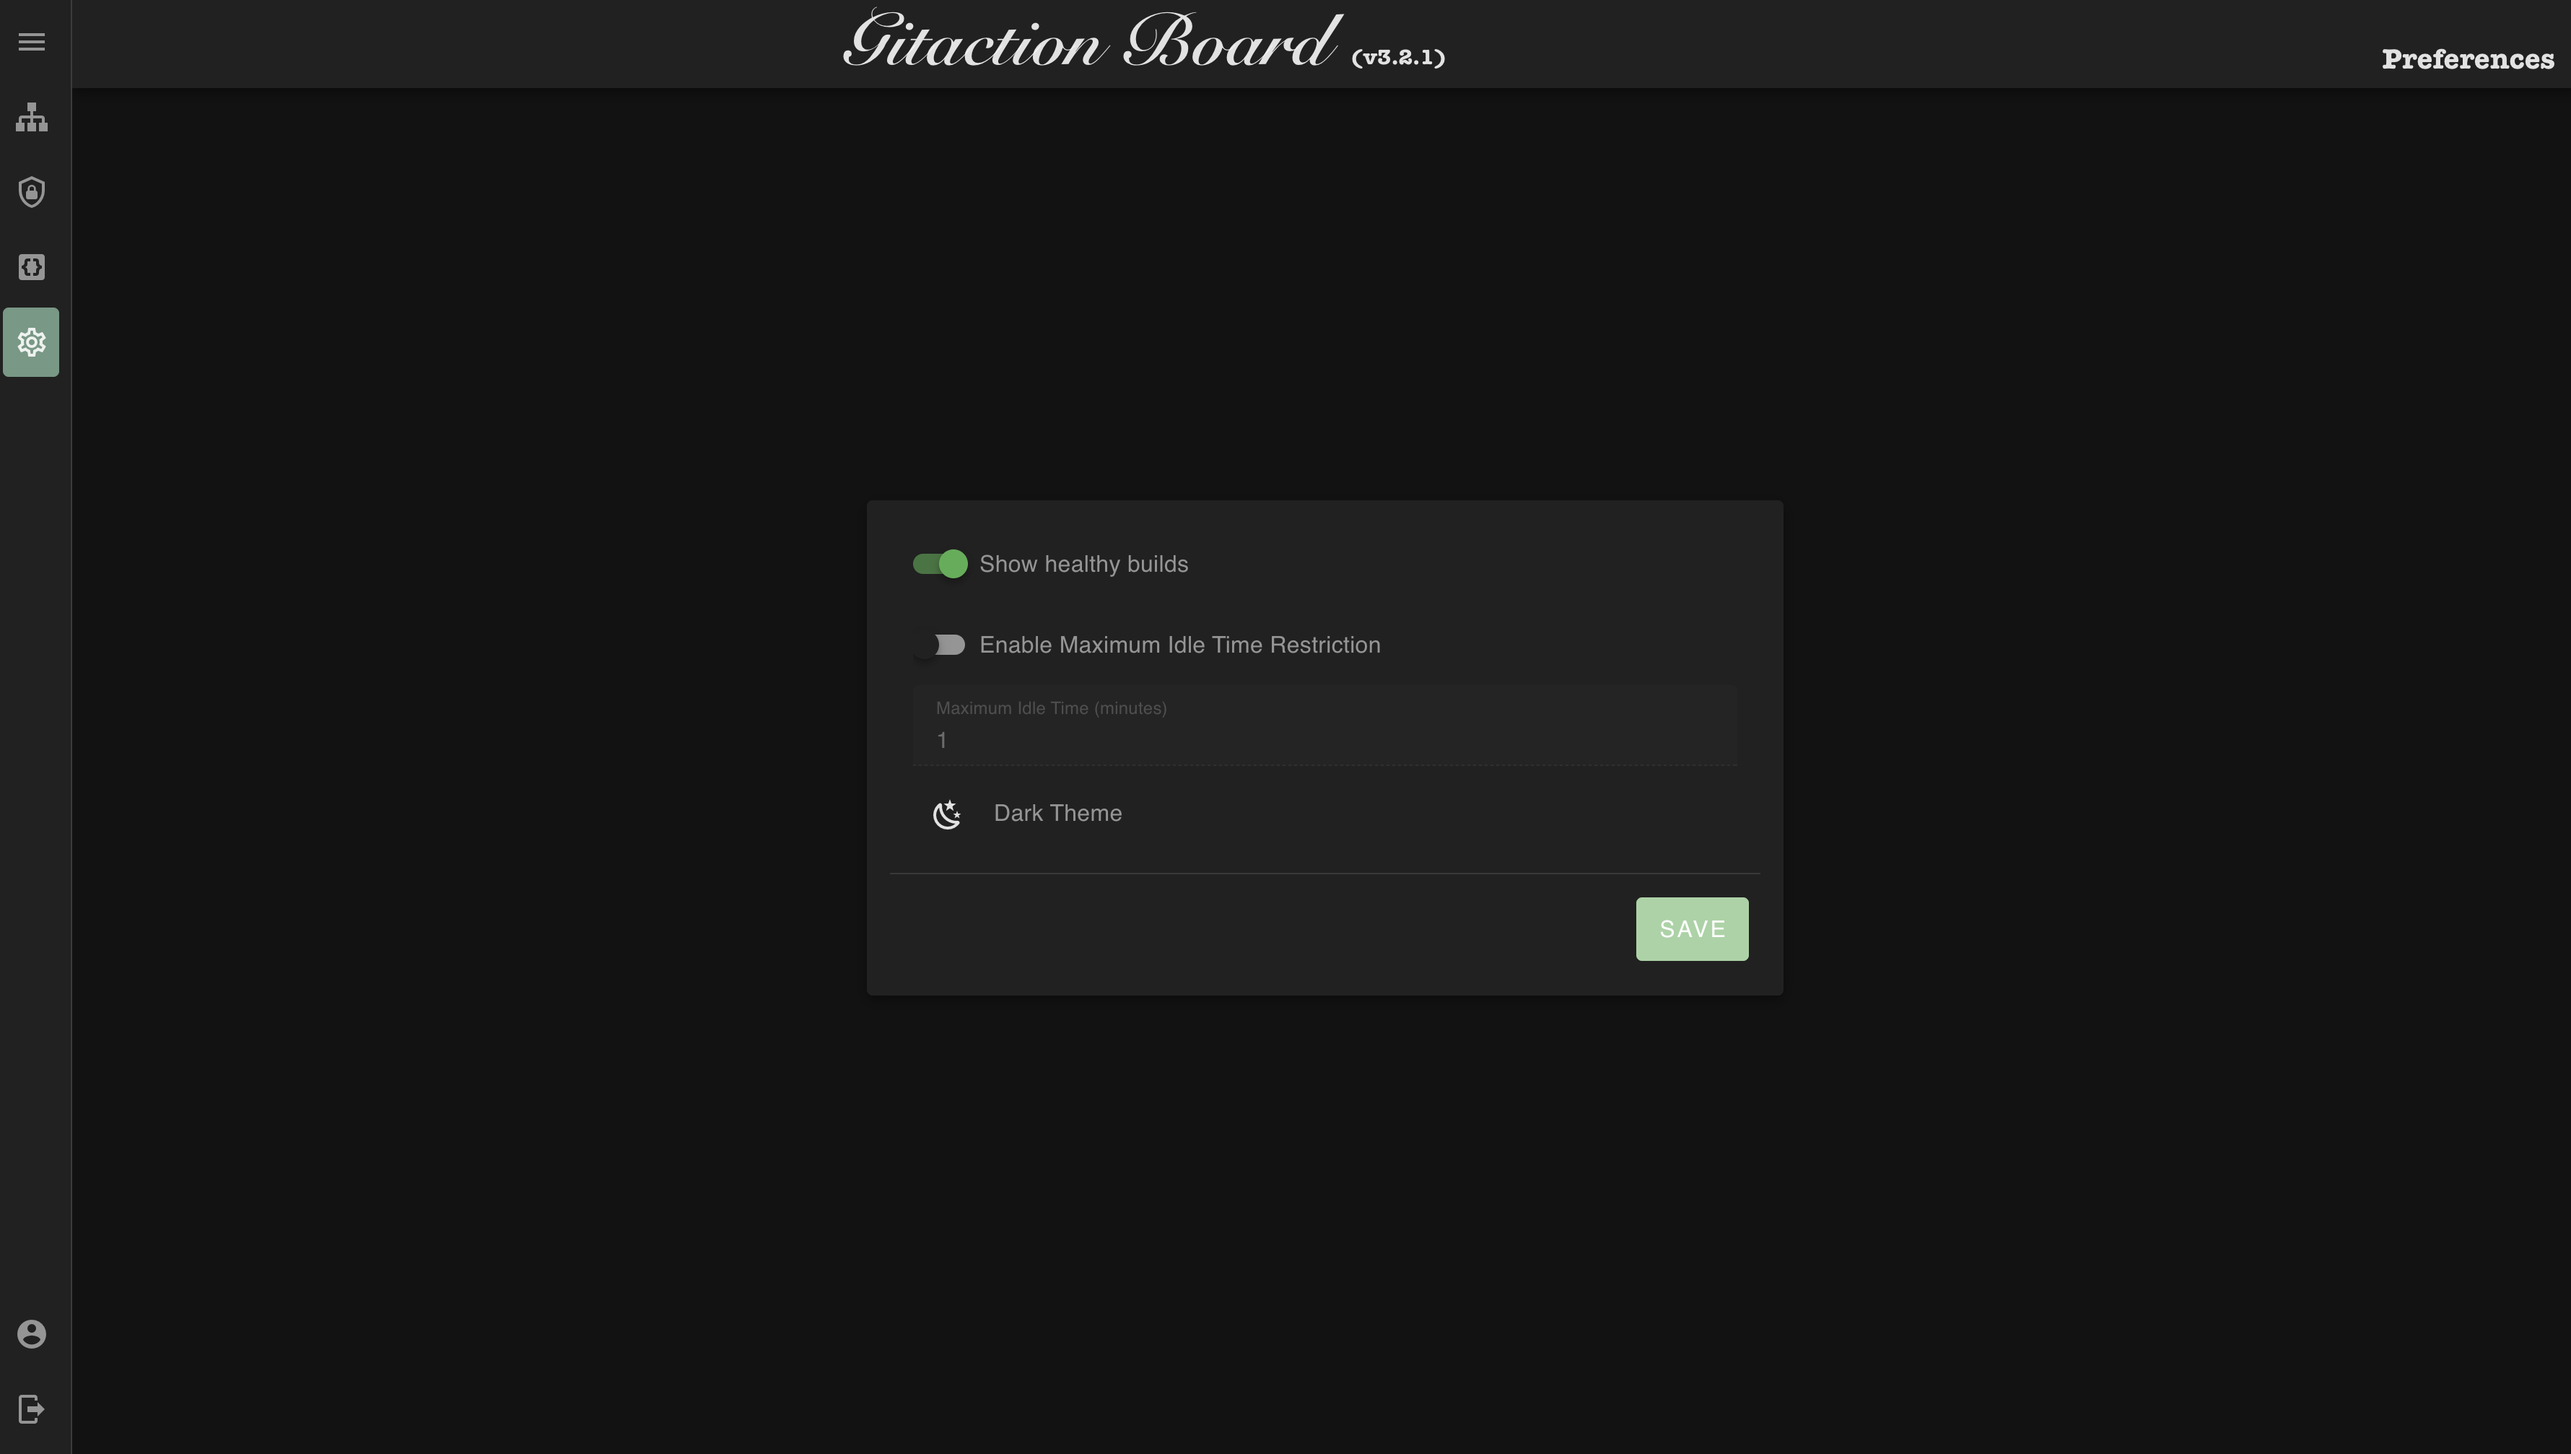
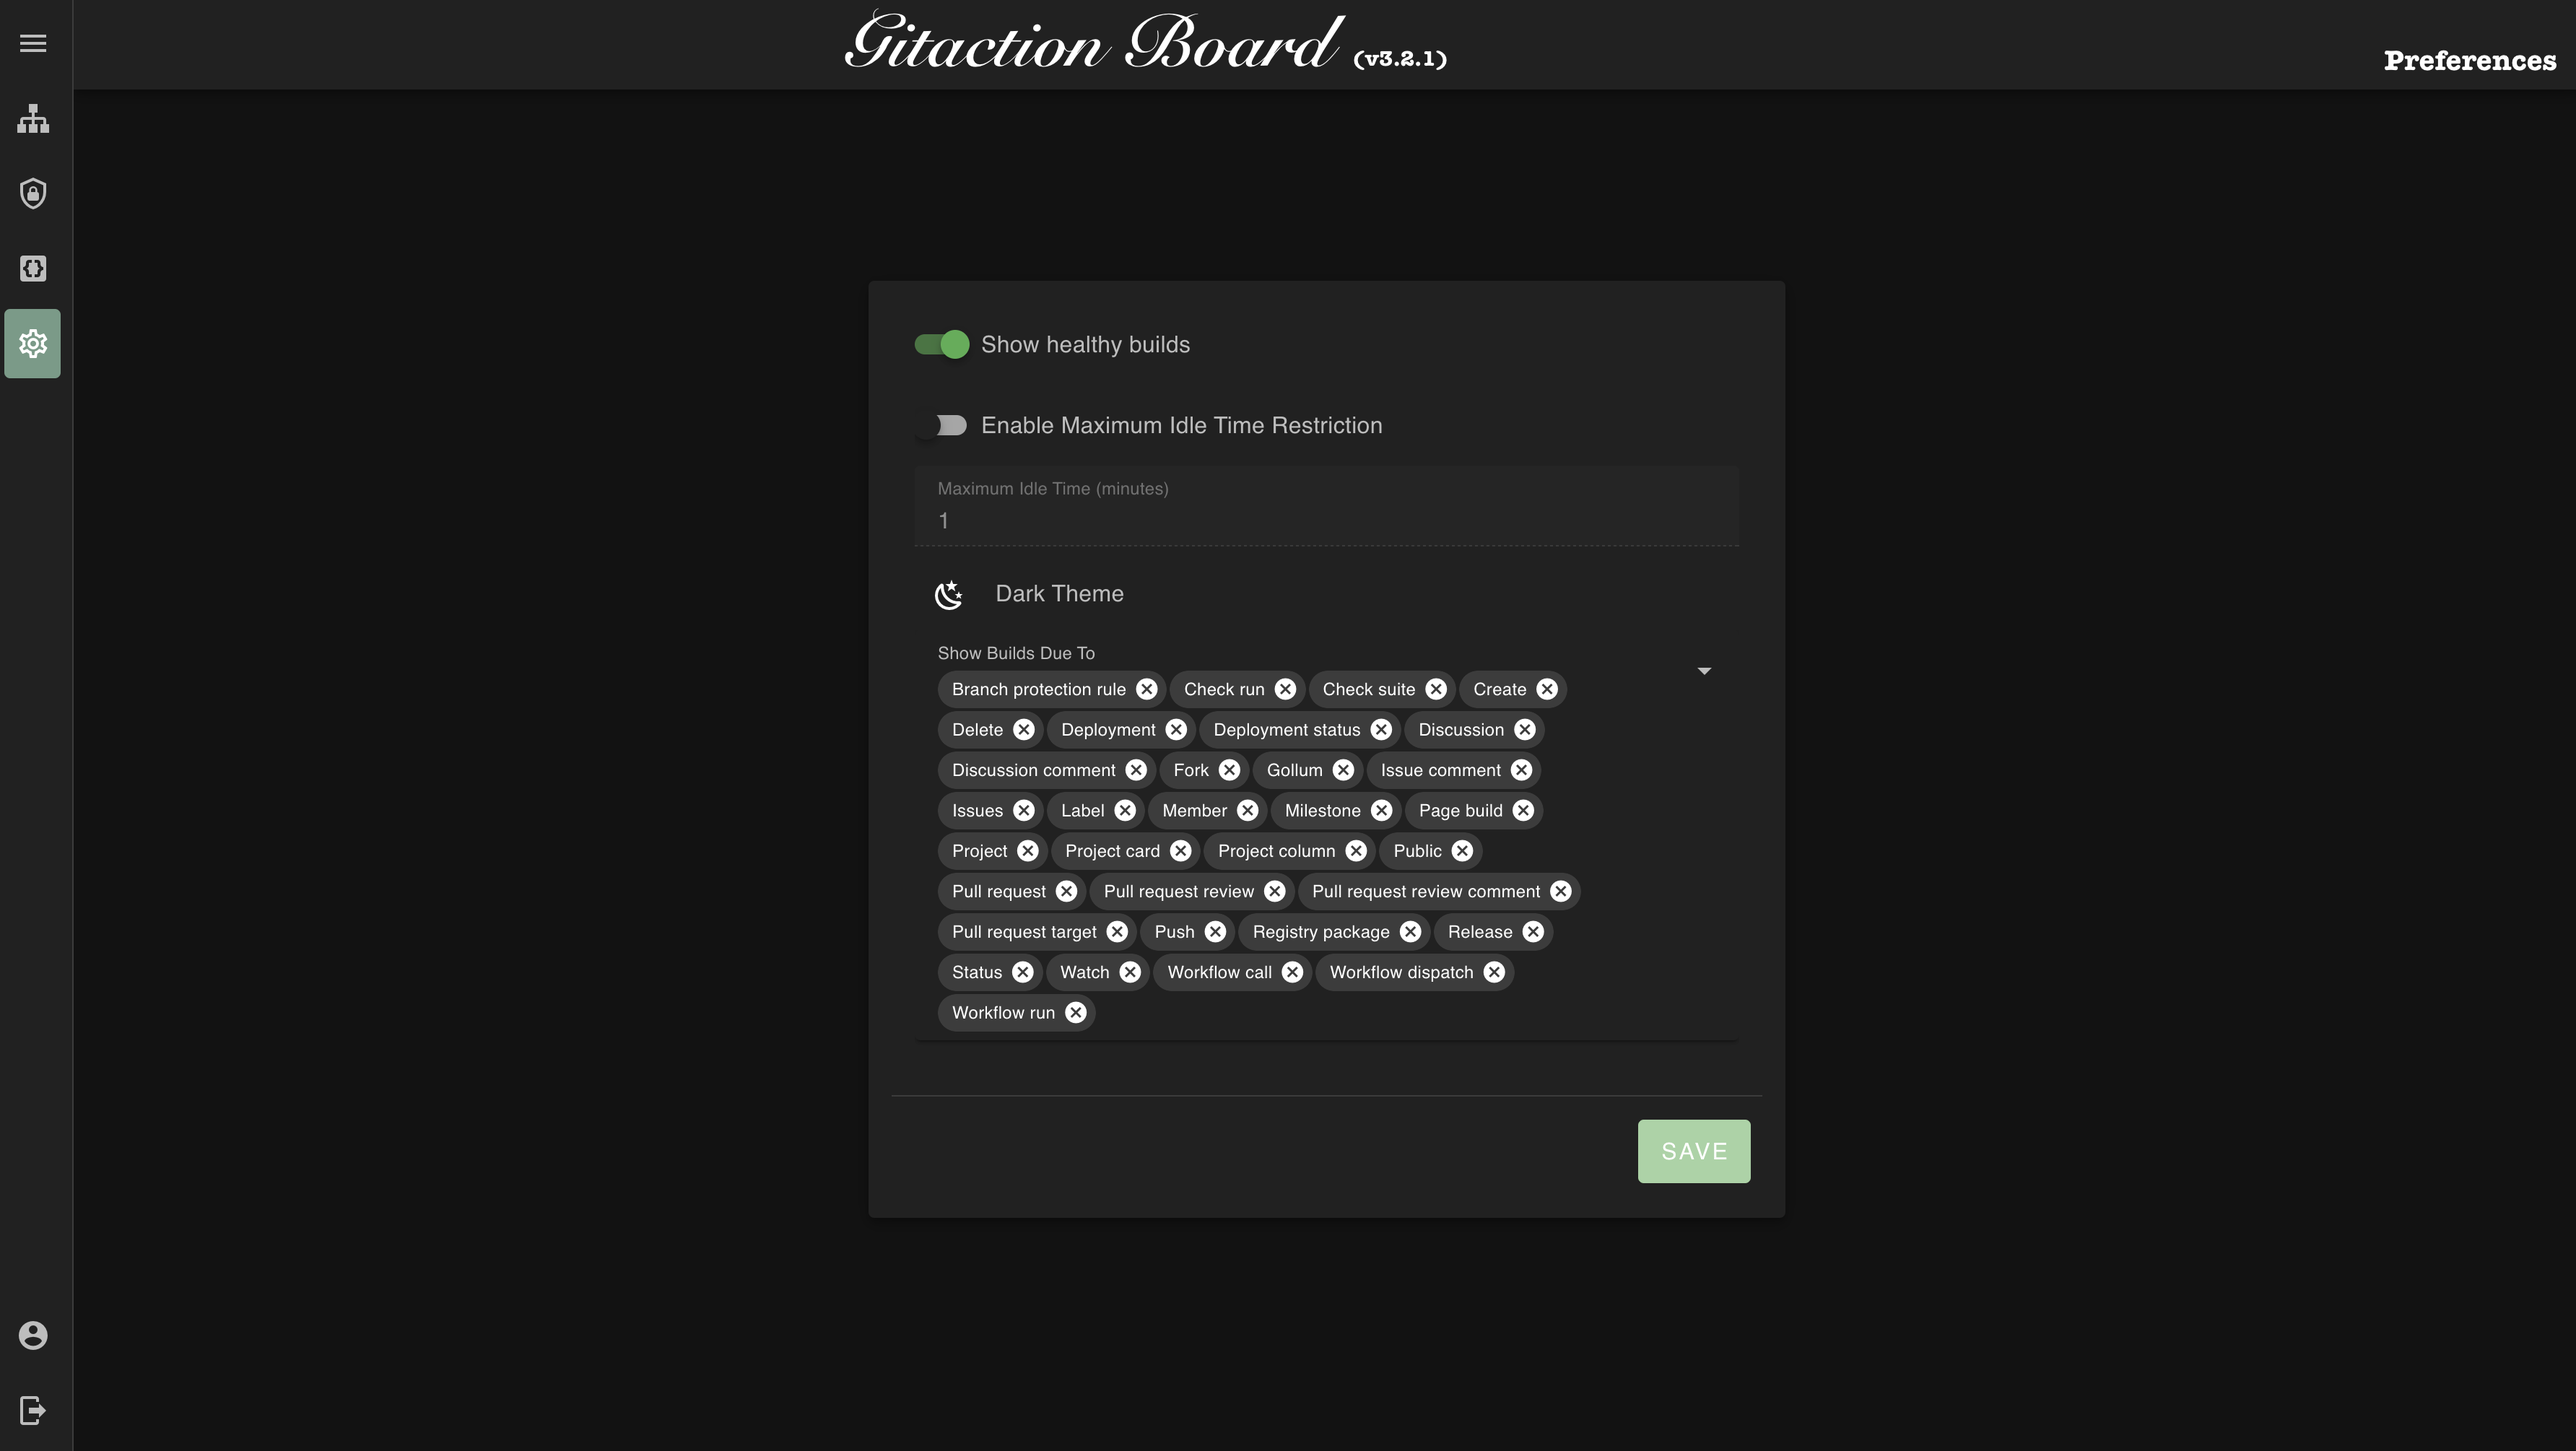
feat: (#216) Introduce possibility to filter builds based on events
- Closes #216

diff --git a/frontend/src/components/Preferences.vue b/frontend/src/components/Preferences.vue
@@ -49,6 +49,21 @@
             {{ theme === 'light' ? 'Light' : 'Dark' }} Theme
           </v-label>
         </v-card-item>
+        <v-card-item class="pt-0 pb-0">
+          <v-autocomplete
+            v-model="showBuildsDueToTriggeredEvents"
+            chips
+            closable-chips
+            label="Show Builds Due To"
+            multiple
+            variant="solo"
+            hide-selected
+            clearable
+            hide-no-data
+            :items="getAllPossibleTriggeredEvents"
+            @update:model-value="modelValueUpdated"
+          />
+        </v-card-item>
         <v-divider class="mt-4 mb-2" />
         <v-card-actions>
           <v-spacer />
@@ -71,6 +86,7 @@
 import preferences from '@/services/preferences';
 import DashboardHeader from '@/components/DashboardHeader.vue';
 import { useTheme } from 'vuetify';
+import { getAllPossibleTriggeredEvents, getShowBuildsDueToTriggeredEvents } from '@/services/utils';
 
 export default {
   name: 'Preferences',
@@ -82,7 +98,8 @@ export default {
       maxIdleTime: preferences.maxIdleTime,
       enableMaxIdleTimeOptimization: preferences.enableMaxIdleTimeOptimization,
       themeInstance,
-      isDirty: false
+      isDirty: false,
+      showBuildsDueToTriggeredEvents: getShowBuildsDueToTriggeredEvents()
     };
   },
   computed: {
@@ -97,6 +114,9 @@ export default {
     },
     theme() {
       return this.themeInstance.global.name;
+    },
+    getAllPossibleTriggeredEvents() {
+      return getAllPossibleTriggeredEvents();
     }
   },
   methods: {
@@ -109,6 +129,7 @@ export default {
       preferences.showHealthyBuilds = this.showHealthyBuilds;
       preferences.maxIdleTime = this.maxIdleTime;
       preferences.theme = this.themeInstance.global.name;
+      preferences.showBuildsDueToTriggeredEvents = this.showBuildsDueToTriggeredEvents;
 
       this.isDirty = false;
     },
@@ -116,7 +137,18 @@ export default {
       this.isDirty = !(this.themeInstance.global.name === preferences.theme &&
           this.showHealthyBuilds === preferences.showHealthyBuilds &&
             this.maxIdleTime === preferences.maxIdleTime &&
-            this.enableMaxIdleTimeOptimization === preferences.enableMaxIdleTimeOptimization);
+            this.enableMaxIdleTimeOptimization === preferences.enableMaxIdleTimeOptimization &&
+          this.hasSameShowBuildsDueToTriggeredEvents());
+    },
+    hasSameShowBuildsDueToTriggeredEvents() {
+      const newPreferredTriggeredEvents = Object.keys(this.showBuildsDueToTriggeredEvents);
+      const preferredTriggeredEvents = preferences.showBuildsDueToTriggeredEvents;
+
+      if (preferredTriggeredEvents.length === 0 &&
+          newPreferredTriggeredEvents.length === getAllPossibleTriggeredEvents().length) { return true; }
+
+      return preferredTriggeredEvents.length === newPreferredTriggeredEvents.length &&
+        preferredTriggeredEvents.every((val, index) => val === newPreferredTriggeredEvents[index]);
     }
   }
 };

diff --git a/frontend/src/services/utils.js b/frontend/src/services/utils.js
@@ -1,4 +1,42 @@
 import storageService from '@/services/storageService';
+import preferences from '@/services/preferences';
+
+const allPossibleEvents = {
+  branch_protection_rule: 'Branch protection rule',
+  check_run: 'Check run',
+  check_suite: 'Check suite',
+  create: 'Create',
+  delete: 'Delete',
+  deployment: 'Deployment',
+  deployment_status: 'Deployment status',
+  discussion: 'Discussion',
+  discussion_comment: 'Discussion comment',
+  fork: 'Fork',
+  gollum: 'Gollum',
+  issue_comment: 'Issue comment',
+  issues: 'Issues',
+  label: 'Label',
+  member: 'Member',
+  milestone: 'Milestone',
+  page_build: 'Page build',
+  project: 'Project',
+  project_card: 'Project card',
+  project_column: 'Project column',
+  public: 'Public',
+  pull_request: 'Pull request',
+  pull_request_review: 'Pull request review',
+  pull_request_review_comment: 'Pull request review comment',
+  pull_request_target: 'Pull request target',
+  push: 'Push',
+  registry_package: 'Registry package',
+  release: 'Release',
+  status: 'Status',
+  watch: 'Watch',
+  workflow_call: 'Workflow call',
+  workflow_dispatch: 'Workflow dispatch',
+  workflow_run: 'Workflow run',
+  repository_dispatch: 'Repository dispatch'
+};
 
 export const setAvailableAuths = (availableAuths) => {
   storageService.setItem('availableAuths', JSON.stringify(availableAuths));
@@ -38,3 +76,17 @@ export const getGithubCodeScanMonitoringEnabled = () =>
   false;
 
 export const getVersion = () => storageService.getItem('version');
+
+const buildTriggeredEvents = (keys) => {
+  return keys.map(key => ({
+    title: allPossibleEvents[key],
+    value: key
+  }));
+};
+
+export const getAllPossibleTriggeredEvents = () => buildTriggeredEvents(Object.keys(allPossibleEvents));
+
+export const getShowBuildsDueToTriggeredEvents = () =>
+  preferences.showBuildsDueToTriggeredEvents.length === 0
+    ? getAllPossibleTriggeredEvents()
+    : buildTriggeredEvents(preferences.showBuildsDueToTriggeredEvents);

diff --git a/frontend/src/components/WorkflowDashboard.vue b/frontend/src/components/WorkflowDashboard.vue
@@ -38,6 +38,9 @@ export default {
     },
     maxIdleTime() {
       return preferences.maxIdleTime;
+    },
+    hasPreferredTriggeredEvents() {
+      return preferences.showBuildsDueToTriggeredEvents.length > 0;
     }
   },
   methods: {
@@ -48,10 +51,12 @@ export default {
       return lastBuildStatus === 'Success' && activity === 'Sleeping';
     },
     marshalData(data) {
-      return data.filter(({ lastBuildStatus, activity }) => {
-        return this.showHealthyBuilds ? true : !this.isIdleHealthyBuild(lastBuildStatus, activity);
-      }
-      );
+      return data
+        .filter(({ lastBuildStatus, activity }) =>
+          this.showHealthyBuilds ? true : !this.isIdleHealthyBuild(lastBuildStatus, activity))
+        .filter(({ triggeredEvent }) =>
+          !this.hasPreferredTriggeredEvents ||
+            preferences.showBuildsDueToTriggeredEvents.indexOf(triggeredEvent) !== -1);
     }
   }
 };

diff --git a/frontend/src/services/preferences.js b/frontend/src/services/preferences.js
@@ -62,6 +62,14 @@ class Preferences {
   set theme(value) {
     this.__set__('theme', value);
   }
+
+  get showBuildsDueToTriggeredEvents() {
+    return JSON.parse(this.__get__('show-builds-due-to-triggered-events') || '[]');
+  }
+
+  set showBuildsDueToTriggeredEvents(events) {
+    this.__set__('show-builds-due-to-triggered-events', JSON.stringify(events));
+  }
 }
 
 export default new Preferences();
